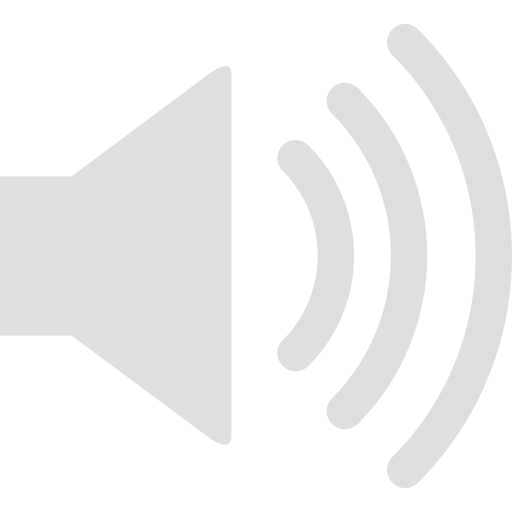
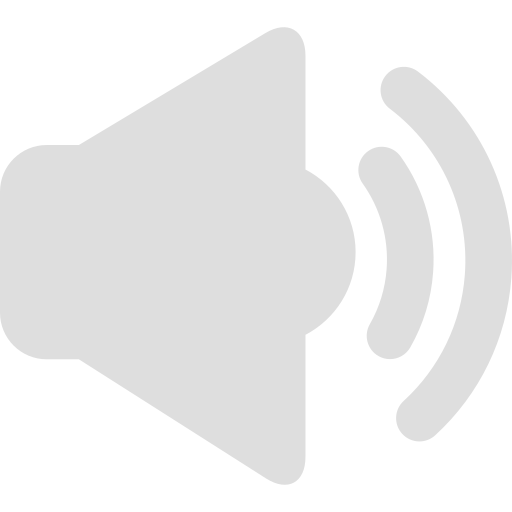
Added mute/unmute to media player

diff --git a/src/main/java/controllers/VARpediaController.java b/src/main/java/controllers/VARpediaController.java
@@ -166,6 +166,9 @@ public class VARpediaController implements Initializable {
     private ImageView imgPlayPause;
 
     @FXML
+    private ImageView imgVolume;
+
+    @FXML
     private Button btnPreviewCreation;
 
     @FXML
@@ -449,10 +452,16 @@ public class VARpediaController implements Initializable {
     }
 
     private String currentlyPlaying;
+    private boolean mute;
+    private double volume;
     @FXML
     void btnPlayCreationClicked(ActionEvent event) {
         if (listCreations.getSelectionModel().getSelectedItem() != null) {
             currentlyPlaying = listCreations.getSelectionModel().getSelectedItem();
+            imgVolume.setImage(new Image(new File(ICONS.toString() + "/volume-" + (isDark ? "dark" : "light") + ".png").toURI().toString()));
+            mute = false;
+            volume = 100;
+
             Media video = new Media(CREATIONS.toURI().toString() + currentlyPlaying + ".mp4");
             mp = new MediaPlayer(video);
             mvPlayCreation.setMediaPlayer(mp);
@@ -609,6 +618,22 @@ public class VARpediaController implements Initializable {
             } else {
                 mp.seek(duration);
             }
+        }
+    }
+
+    @FXML
+    void btnMuteClicked(ActionEvent event) {
+        if (!mute) {
+            volume = sliderVol.getValue();
+            sliderVol.setValue(0);
+            imgVolume.setImage(new Image(new File(ICONS.toString() + "/mute-" + (isDark ? "dark" : "light") + ".png").toURI().toString()));
+            mp.setVolume(0);
+            mute = true;
+        } else {
+            sliderVol.setValue(volume);
+            imgVolume.setImage(new Image(new File(ICONS.toString() + "/volume-" + (isDark ? "dark" : "light") + ".png").toURI().toString()));
+            mp.setVolume(volume / 100.0);
+            mute = false;
         }
     }
 
